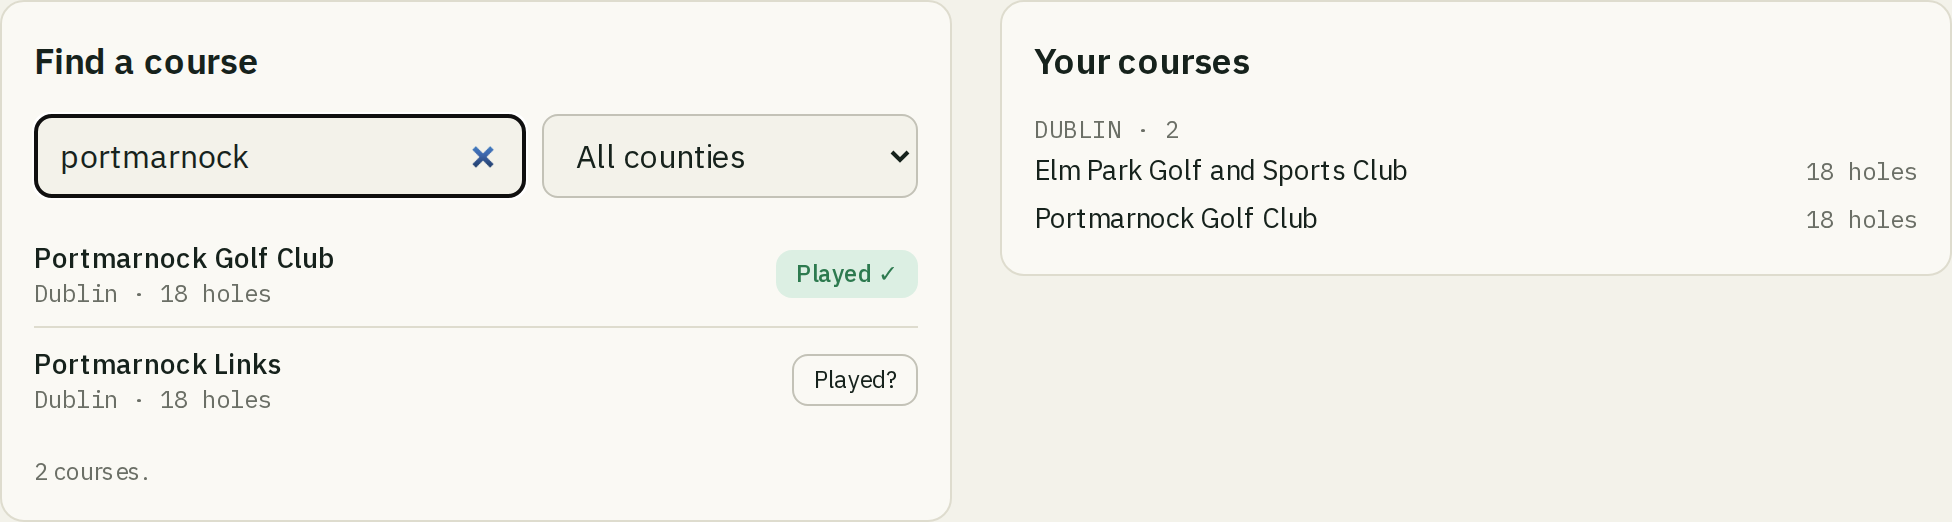
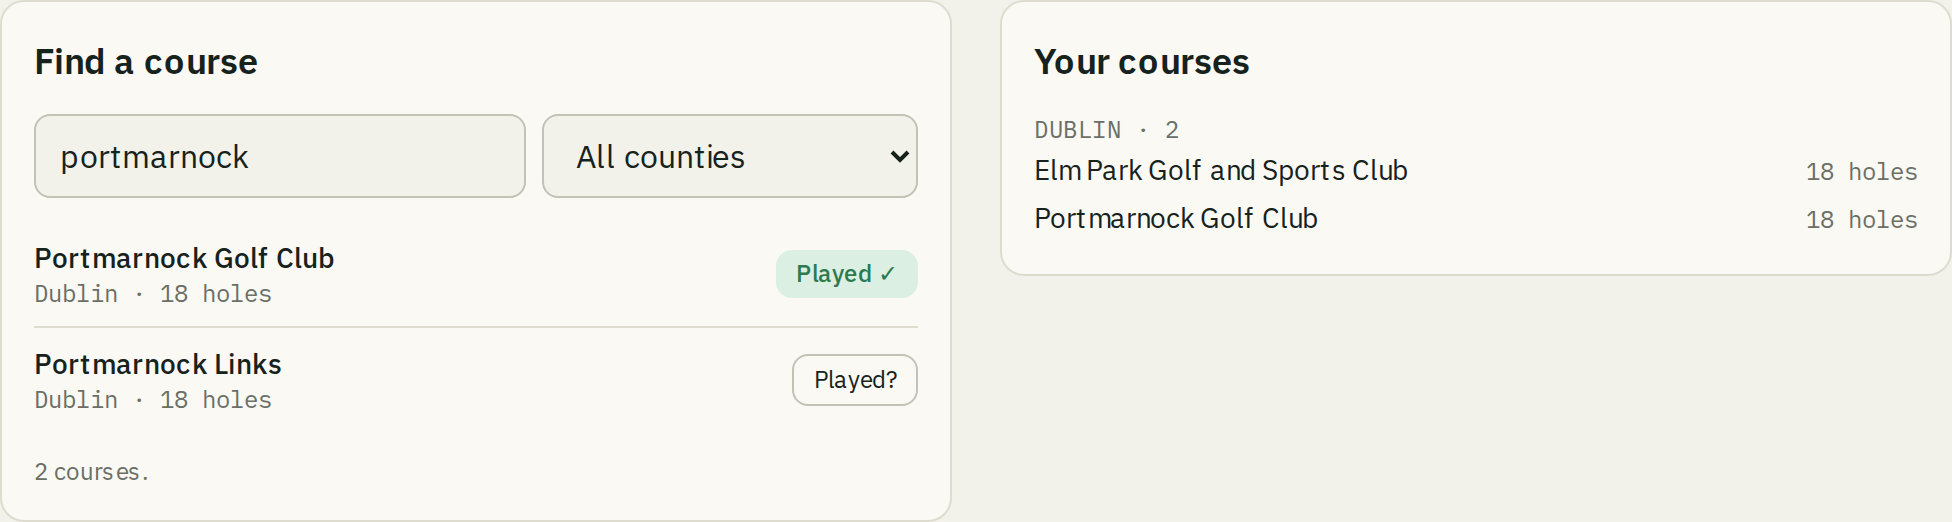
Map: cluster courses when zoomed out, flag pins when zoomed in
Leaflet.markercluster groups nearby courses into count bubbles at
island scale (a green badge counts the played ones inside) and shows
one flag pin per course from zoom 11: green when played, gold ring when
top 100. Picking a course from a list zooms until its pin is out of the
bubble. Legend, docs and PR screenshots updated.

Claude-Session: https://claude.ai/code/session_01XXrqb3LnTLAcvhgGoVCSLa

diff --git a/src/app/profile/course-map.tsx b/src/app/profile/course-map.tsx
@@ -1,16 +1,19 @@
 'use client';
 
 import { useEffect, useRef } from 'react';
-import type { CircleMarker, Map as LeafletMap } from 'leaflet';
+import type { Map as LeafletMap, Marker, MarkerClusterGroup } from 'leaflet';
 import 'leaflet/dist/leaflet.css';
+import 'leaflet.markercluster/dist/MarkerCluster.css';
 import type { DirectoryCourse } from '@/lib/directory/build';
-import { CHROME, DIVERGING } from '@/lib/insights/chart-colors';
 
 /** Island of Ireland, with a little sea around it. */
 const IRELAND_BOUNDS: [[number, number], [number, number]] = [
   [51.35, -10.7],
   [55.45, -5.35],
 ];
+
+/** From this zoom in, every course is its own pin (roughly county level). */
+const UNCLUSTER_AT_ZOOM = 11;
 
 export type MapCourse = DirectoryCourse & {
   played: boolean;
@@ -20,21 +23,19 @@ export type MapCourse = DirectoryCourse & {
   rank: number | null;
 };
 
-/** Gold ring = in the top 100 (the eagle colour from globals.css). */
-const TOP100_RING = '#e9b31c';
-
-const style = (c: Pick<MapCourse, 'played' | 'rank'>) => {
-  const ranked = c.rank !== null;
-  return c.played
-    ? { radius: ranked ? 8 : 7, color: ranked ? TOP100_RING : CHROME.surface, weight: ranked ? 3 : 1.5, fillColor: DIVERGING.positive, fillOpacity: 1 }
-    : { radius: ranked ? 6 : 4, color: ranked ? TOP100_RING : CHROME.mutedInk, weight: ranked ? 2.5 : 1, fillColor: CHROME.surface, fillOpacity: 0.9 };
-};
+/** A small flag in a disc — green when played, gold-ringed when in the top 100 (styles: globals.css). */
+function pinHtml(c: Pick<MapCourse, 'played' | 'rank'>): string {
+  const cls = ['course-pin', c.played ? 'course-pin--played' : '', c.rank !== null ? 'course-pin--ranked' : ''].join(' ');
+  return `<span class="${cls}"><svg viewBox="0 0 16 16" aria-hidden="true"><path d="M5.5 2.5v11" /><path d="M6 2.8l5.5 2.3L6 7.4z" /></svg></span>`;
+}
 
 /**
- * Every course in the directory as a dot — green when played, gold-ringed when in the top 100. Tap one for its details and a
- * played / not-played toggle. Leaflet is loaded on the client only (it touches `window`).
+ * Every course in the directory on a map. Zoomed out, nearby courses gather into count bubbles
+ * (Leaflet.markercluster) — a green badge on a bubble says how many inside are played. From
+ * `UNCLUSTER_AT_ZOOM` in, each course is its own flag pin: green when played, gold-ringed when in the
+ * top 100. Tap a pin for its details and a played toggle. Leaflet is loaded on the client only.
  *
- * Basemap: CARTO "Positron" (light, low-contrast, so the dots carry the colour), © OpenStreetMap
+ * Basemap: CARTO "Positron" (light, low-contrast, so the pins carry the colour), © OpenStreetMap
  * contributors — the attribution control must stay on.
  */
 export function CourseMap({
@@ -52,7 +53,10 @@ export function CourseMap({
 }) {
   const el = useRef<HTMLDivElement>(null);
   const map = useRef<LeafletMap | null>(null);
-  const markers = useRef(new Map<string, CircleMarker>());
+  const cluster = useRef<MarkerClusterGroup | null>(null);
+  const markers = useRef(new Map<string, Marker>());
+  /** Marker -> course, so a cluster bubble can count the played courses inside it. */
+  const courseOf = useRef(new WeakMap<Marker, MapCourse>());
   const latest = useRef({ courses, onToggle });
   latest.current = { courses, onToggle };
 
@@ -61,6 +65,9 @@ export function CourseMap({
     let cancelled = false;
     (async () => {
       const L = (await import('leaflet')).default;
+      // The clustering plugin extends the global `L`.
+      (window as unknown as { L: typeof L }).L = L;
+      await import('leaflet.markercluster');
       if (cancelled || !el.current || map.current) return;
       const m = L.map(el.current, { scrollWheelZoom: false, zoomSnap: 0.25, attributionControl: true });
       m.fitBounds(IRELAND_BOUNDS);
@@ -70,63 +77,87 @@ export function CourseMap({
         subdomains: 'abcd',
         maxZoom: 18,
       }).addTo(m);
+      const group = L.markerClusterGroup({
+        showCoverageOnHover: false,
+        maxClusterRadius: 60,
+        disableClusteringAtZoom: UNCLUSTER_AT_ZOOM,
+        spiderfyOnMaxZoom: false,
+        iconCreateFunction: (c) => {
+          const children = c.getAllChildMarkers();
+          const count = children.length;
+          const played = children.filter((mk) => courseOf.current.get(mk)?.played).length;
+          const size = count < 10 ? 28 : count < 40 ? 34 : 42;
+          const badge = played > 0 ? `<span class="course-cluster__played" title="${played} played">${played}</span>` : '';
+          return L.divIcon({
+            html: `<span class="course-cluster" style="width:${size}px;height:${size}px">${count}${badge}</span>`,
+            className: 'course-cluster-icon',
+            iconSize: [size, size],
+          });
+        },
+      });
+      group.addTo(m);
       // Wheel zoom only once the map has been clicked, so it never hijacks page scrolling.
       m.once('focus', () => m.scrollWheelZoom.enable());
       map.current = m;
+      cluster.current = group;
       syncMarkers(L);
     })();
     return () => {
       cancelled = true;
       map.current?.remove();
       map.current = null;
+      cluster.current = null;
       markers.current.clear();
     };
   }, []);
 
-  // Keep dots and popups in step with the played state.
+  // Keep pins, bubbles and popups in step with the played state.
   useEffect(() => {
     if (!map.current) return;
     import('leaflet').then(({ default: L }) => syncMarkers(L));
   }, [courses]);
 
   useEffect(() => {
-    if (!focus || !map.current) return;
+    if (!focus || !cluster.current) return;
     const mk = markers.current.get(focus.key);
     if (!mk) return;
-    map.current.setView(mk.getLatLng(), Math.max(map.current.getZoom(), 11));
-    mk.openPopup();
+    // Zooms in (or spiderfies) until the pin is out of its bubble, then opens it.
+    cluster.current.zoomToShowLayer(mk, () => mk.openPopup());
   }, [focus]);
 
   function syncMarkers(L: typeof import('leaflet')) {
-    const m = map.current;
-    if (!m) return;
+    const group = cluster.current;
+    if (!group) return;
     const seen = new Set<string>();
+    const added: Marker[] = [];
     for (const c of latest.current.courses) {
       seen.add(c.key);
       let mk = markers.current.get(c.key);
+      const icon = L.divIcon({ html: pinHtml(c), className: 'course-pin-icon', iconSize: [22, 22], iconAnchor: [11, 11], popupAnchor: [0, -10] });
       if (!mk) {
-        mk = L.circleMarker([c.lat, c.lng], style(c)).addTo(m);
-        mk.bindTooltip(c.name, { direction: 'top', offset: [0, -4] });
+        mk = L.marker([c.lat, c.lng], { icon, title: c.name, keyboard: true });
         markers.current.set(c.key, mk);
+        added.push(mk);
       } else {
-        mk.setStyle(style(c));
+        const was = courseOf.current.get(mk);
+        if (!was || was.played !== c.played || was.rank !== c.rank) mk.setIcon(icon);
       }
+      // Played and ranked pins sit above the rest where they overlap.
+      mk.setZIndexOffset(c.played ? 1000 : c.rank !== null ? 500 : 0);
+      courseOf.current.set(mk, c);
       const popupOpen = mk.isPopupOpen();
       mk.unbindPopup().bindPopup(popupContent(c), { closeButton: true, minWidth: 200 });
       if (popupOpen) mk.openPopup();
     }
-    // Raise ranked, then played, dots above the rest — AFTER every marker exists, or markers added
-    // later in the loop would sit on top of them (Dublin is dense enough to hide a played course).
-    const byKey = new Map(latest.current.courses.map((c) => [c.key, c]));
-    for (const pass of [(c: MapCourse) => c.rank !== null, (c: MapCourse) => c.played]) {
-      for (const [key, mk] of markers.current) if (byKey.has(key) && pass(byKey.get(key)!)) mk.bringToFront();
-    }
+    if (added.length) group.addLayers(added);
     for (const [key, mk] of markers.current) {
       if (!seen.has(key)) {
-        mk.remove();
+        group.removeLayer(mk);
         markers.current.delete(key);
       }
     }
+    // Bubble badges count played courses, so redraw them after a toggle.
+    group.refreshClusters();
   }
 
   /** Built with DOM calls, not an HTML string: names come from OpenStreetMap. */

diff --git a/src/app/profile/played-explorer.tsx b/src/app/profile/played-explorer.tsx
@@ -116,22 +116,25 @@ export function PlayedExplorer({
       <section ref={mapSection} className="border rounded-xl bg-card p-4 space-y-3 scroll-mt-28">
         <div className="flex flex-wrap items-baseline justify-between gap-2">
           <h2 className="font-semibold text-lg">Map</h2>
-          <p className="flex items-center gap-3 font-mono text-xs text-muted">
+          <p className="flex flex-wrap items-center gap-x-3 gap-y-1 font-mono text-xs text-muted">
             <span className="flex items-center gap-1.5">
               <span className="inline-block size-3 rounded-full bg-pos" /> played
             </span>
             <span className="flex items-center gap-1.5">
-              <span className="inline-block size-2 rounded-full border border-muted bg-card" /> not yet
+              <span className="inline-block size-3 rounded-full border-[1.5px] border-muted bg-card" /> not yet
             </span>
             {hasTop100 && (
               <span className="flex items-center gap-1.5">
                 <span className="inline-block size-3 rounded-full border-2 border-eagle bg-card" /> top 100
               </span>
             )}
+            <span className="flex items-center gap-1.5" title="Zoom in to split a group; the green number is how many you've played">
+              <span className="inline-flex size-4 items-center justify-center rounded-full bg-ink text-[8px] text-paper">5</span> group
+            </span>
           </p>
         </div>
         <CourseMap courses={mapCourses} onToggle={toggle} focus={focus} top100Label={top100.label} />
-        <p className="text-xs text-muted">Tap a dot to tick a course off. Click the map first to zoom with your scroll wheel.</p>
+        <p className="text-xs text-muted">Zoom in (or tap a group) to see each course; tap a flag to tick it off. Click the map first to zoom with your scroll wheel.</p>
       </section>
 
       {error && <p className="text-neg text-sm">{error}</p>}

diff --git a/src/app/globals.css b/src/app/globals.css
@@ -79,3 +79,83 @@
     mask-composite: intersect;
   }
 }
+
+/*
+ * Course map (/profile): flag pins and cluster bubbles, drawn as Leaflet divIcons
+ * (src/app/profile/course-map.tsx). Leaflet's own icon box is made transparent.
+ */
+.course-pin-icon,
+.course-cluster-icon {
+  background: none;
+  border: none;
+}
+.course-pin {
+  display: flex;
+  align-items: center;
+  justify-content: center;
+  width: 22px;
+  height: 22px;
+  border-radius: 9999px;
+  background: var(--color-card);
+  border: 1.5px solid var(--color-muted);
+  box-shadow: 0 1px 2px rgb(22 34 28 / 0.25);
+  transition: transform 120ms ease;
+}
+.course-pin svg {
+  width: 13px;
+  height: 13px;
+}
+.course-pin svg path:first-child {
+  stroke: var(--color-ink-2);
+  stroke-width: 1.4;
+  stroke-linecap: round;
+  fill: none;
+}
+.course-pin svg path:last-child {
+  fill: var(--color-ink-2);
+}
+.course-pin--played {
+  background: var(--color-pos);
+  border-color: var(--color-card);
+}
+.course-pin--played svg path:first-child {
+  stroke: var(--color-card);
+}
+.course-pin--played svg path:last-child {
+  fill: var(--color-card);
+}
+.course-pin--ranked {
+  border: 2.5px solid var(--color-eagle);
+}
+.leaflet-marker-icon:hover .course-pin {
+  transform: scale(1.15);
+}
+.course-cluster {
+  position: relative;
+  display: flex;
+  align-items: center;
+  justify-content: center;
+  border-radius: 9999px;
+  background: var(--color-ink);
+  color: var(--color-paper);
+  font-family: var(--font-mono);
+  font-size: 13px;
+  font-weight: 500;
+  box-shadow: 0 0 0 3px rgb(22 34 28 / 0.14);
+  opacity: 0.92;
+}
+.course-cluster__played {
+  position: absolute;
+  top: -5px;
+  right: -7px;
+  min-width: 18px;
+  height: 18px;
+  padding: 0 4px;
+  border-radius: 9999px;
+  background: var(--color-pos);
+  color: var(--color-card);
+  border: 1.5px solid var(--color-card);
+  font-size: 10px;
+  line-height: 15px;
+  text-align: center;
+}

diff --git a/BUILD.md b/BUILD.md
@@ -330,8 +330,10 @@ automatically.
 - **API:** `PUT /api/played-courses {key, played}` (own list only; key must be in the directory);
   `PATCH /api/courses/[courseId] {directoryKey | null}` (admin only, 404 otherwise).
 - **UI:** `/profile` (nav "Played"): stat tiles (played / total, counties / 32, 18-hole, 9-hole);
-  Leaflet map (CARTO Positron basemap, green dot = played, tap for details and a toggle;
-  wheel-zoom only after a click); search + county filter with Played toggles (optimistic);
+  Leaflet map (CARTO Positron basemap) with Leaflet.markercluster: zoomed out, count bubbles (a
+  green badge = played courses inside); from zoom 11, one flag pin per course (green = played, gold
+  ring = top 100), tap for details and a toggle; picking a course from a list zooms to its pin;
+  wheel-zoom only after a click; search + county filter with Played toggles (optimistic);
   "Your courses" grouped by county. Private to the player, like rounds.
 - **Tests required:** `normaliseCounty` table; website sanitising; hole counting (smallest box,
   distinct refs, unnumbered fallback); filters; duplicate merge vs. near-name neighbours;

diff --git a/CHANGELOG.md b/CHANGELOG.md
@@ -11,7 +11,8 @@ pre-1.0 every release bumps the patch number (0.0.1, 0.0.2, …).
 - New **Played** page: every golf course in Ireland, North and South, on a map. Tick off the ones
   you've played and build up your list, grouped by county, with counts: courses played, counties
   out of 32, and 18- and 9-hole courses.
-- Search by name or county, or tap a dot on the map. Green = played.
+- Search by name or county, or tap a flag on the map. Green = played. Zoomed out, nearby courses
+  group into numbered bubbles, with a green badge counting the ones you've played.
 - Courses where you've **logged a round** count automatically (the admin links each scorecard
   course to its map entry on the Courses page).
 - Your list is private to you, like your rounds.
